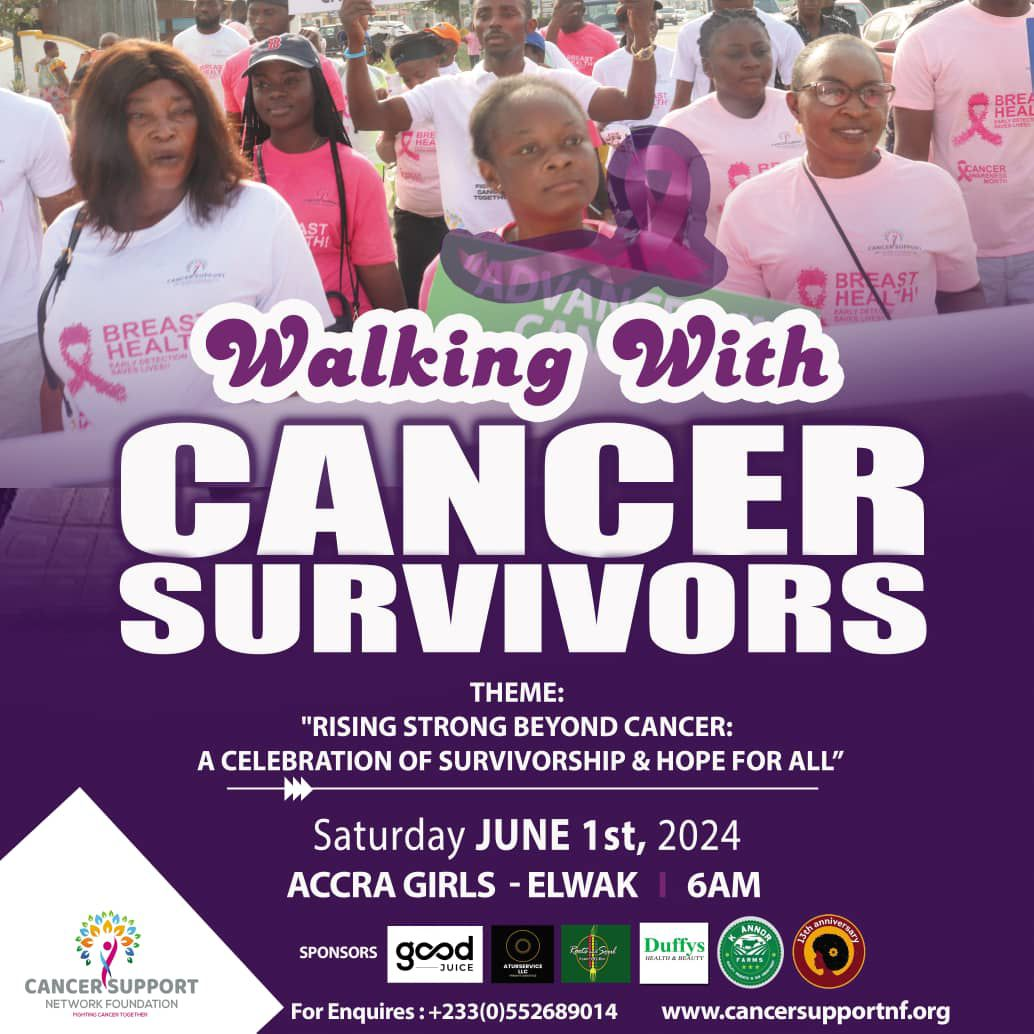
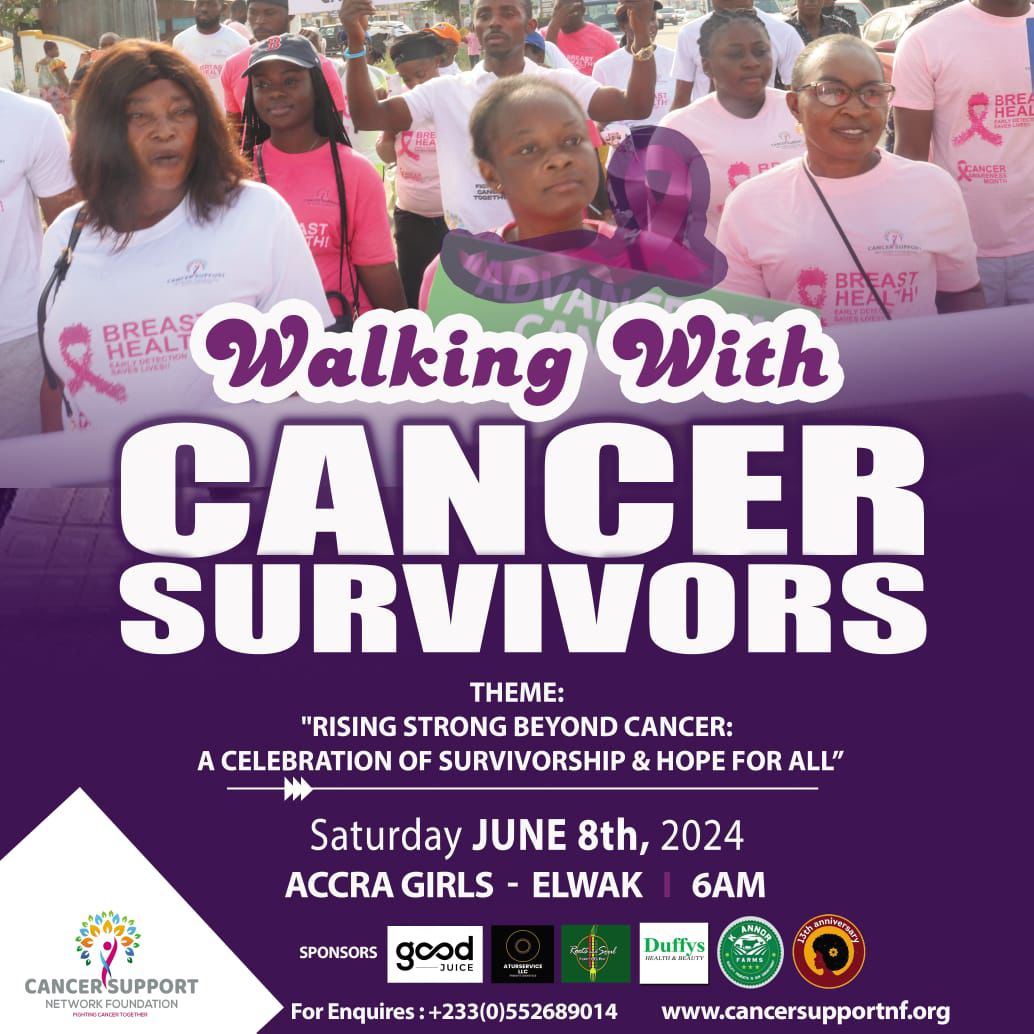
more changes

diff --git a/src/data/data.js b/src/data/data.js
@@ -34,7 +34,7 @@ const events = [
     id: 1,
     image: "../images/june.jpeg",
     title: "Olusegun Obasanjo Way, Near Accra Girls Senior High School",
-    date: "1 June, 2024",
+    date: "8 June, 2024",
     time: "6am",
   },
   {
@@ -176,10 +176,10 @@ const eventsData = [
   {
     id: 1,
     image: "../images/events/june.jpeg",
-    title: "Olusegun Obasanjo Way, Near Accra Girls Senior High School",
-    date: "1 June, 2024",
+    title: `Rising Strong Beyond Cancer. "Venue: Accra Girls, Elwak"`,
+    date: "8 June, 2024",
     time: "6am",
-    category: "In person",
+    category: "Outdoor",
     location: "Olusegun Obasanjo Way, Near Accra Girls Senior High School",
   },
   {

diff --git a/src/components/Footer.jsx b/src/components/Footer.jsx
@@ -28,8 +28,9 @@ const Footer = () => {
               target="_blank"
             >
               <p className="text-md lg:text-lg text-gray-500 my-2">
-                <span className="font-medium text-black">Address: </span>13
-                Jungle Avenue - East Legon, Accra
+                <span className="font-medium text-black">Address: </span>
+                {/* 13 Jungle Avenue - East Legon, Accra */}
+                Olusegun Obasanjo Way, Near Accra Girls Senior High School
               </p>
             </Link>
             <Link to={"tel:+233552689014"}>
